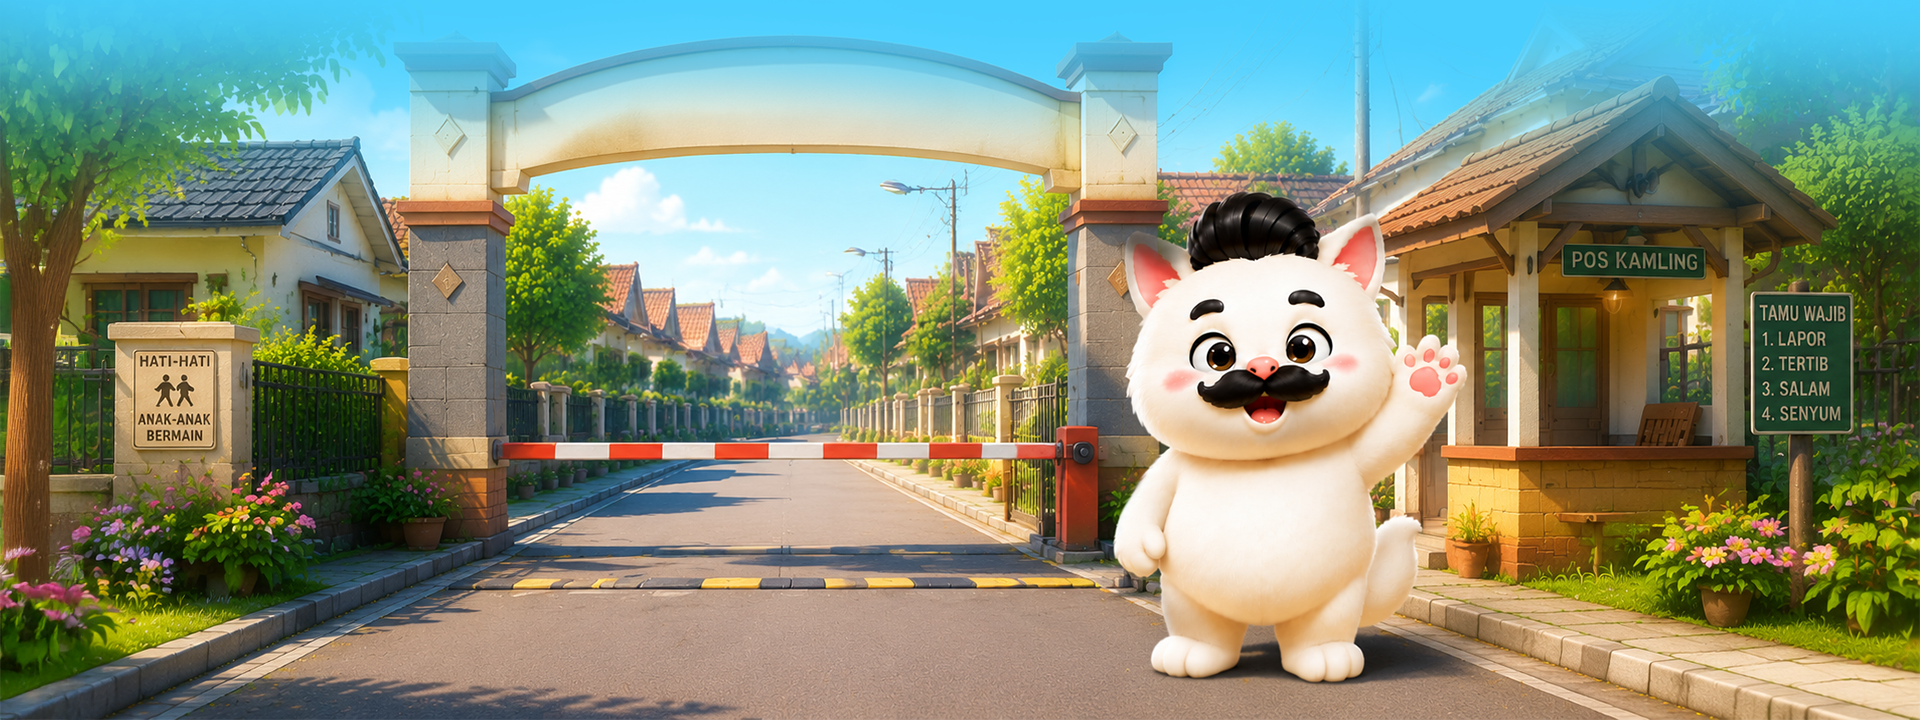
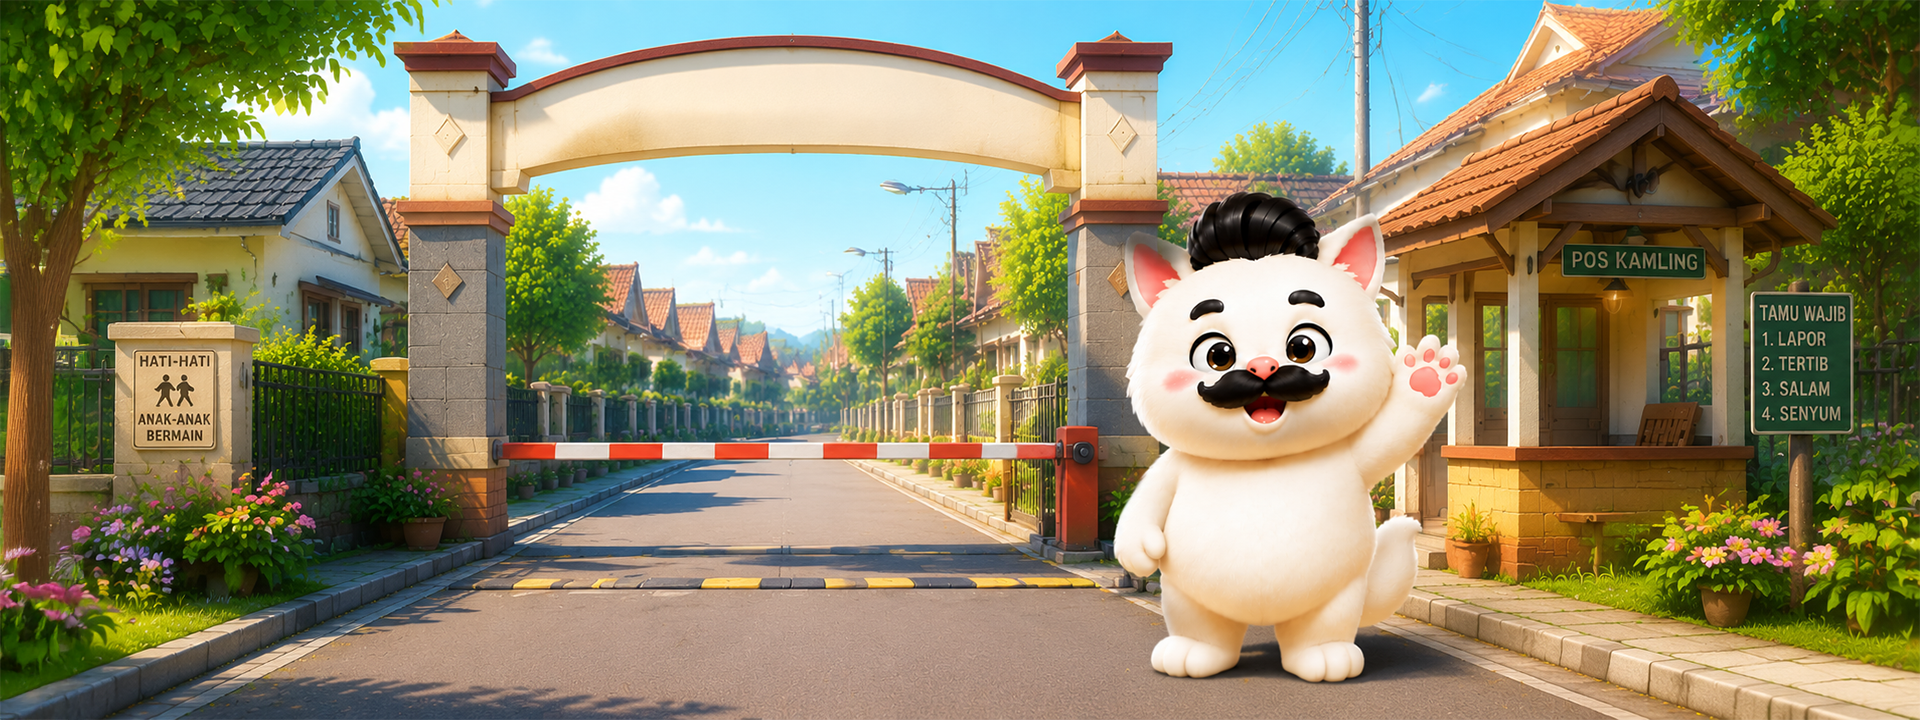
Hero: BG-duniakomi terbaru, headline sebaris, CTA sejajar kiri-kanan

Changed region(s): [[0.0, 0.0, 1.0, 0.3361]]

diff --git a/components/landing/Hero.tsx b/components/landing/Hero.tsx
@@ -33,22 +33,22 @@ export function Hero() {
       {/* Teks di depan banner, dibungkus frame kotak rounded biar gak tabrakan dengan latar */}
       <div className="absolute inset-0 flex items-end md:items-center">
         <div className="mx-auto w-full max-w-6xl px-4 pb-5 sm:px-8 md:pb-0">
-          <div className="max-w-md rounded-[1.75rem] border border-white/15 bg-navy/60 p-6 shadow-2xl backdrop-blur-md sm:p-7">
+          <div className="w-full max-w-xl rounded-[1.75rem] border border-white/15 bg-navy/60 p-6 shadow-2xl backdrop-blur-md sm:p-7 md:w-fit md:max-w-2xl">
             <span className="inline-flex items-center gap-2 rounded-full bg-white/20 px-4 py-1.5 font-body text-sm font-bold text-white backdrop-blur-sm">
               <Sparkles className="h-4 w-4" /> Dunia Komi
             </span>
-            <h1 className="mt-3 font-display text-4xl font-extrabold leading-[1.05] text-white drop-shadow-lg sm:text-6xl">
+            <h1 className="mt-3 font-display text-4xl font-extrabold leading-[1.05] text-white drop-shadow-lg sm:text-5xl md:whitespace-nowrap">
               Kenalin, ini <span className="text-orange-soft">Komi</span>.
             </h1>
-            <p className="mt-3 font-body text-base text-white/90 sm:text-lg">
+            <p className="mt-3 max-w-md font-body text-base text-white/90 sm:text-lg">
               Sahabat berkumis yang bikin baca berita jadi lebih asik — nemenin kamu update tiap hari.
             </p>
-            <div className="mt-5 flex flex-wrap gap-3">
+            <div className="mt-5 flex flex-wrap gap-3 md:flex-nowrap">
               <Link href="/kolom-komi">
-                <Button className="px-6 py-3 text-base">🐟 Main Kolom Komi</Button>
+                <Button className="px-5 py-3 text-base">🐟 Main Kolom Komi</Button>
               </Link>
               <a href="#daftar">
-                <Button variant="outline" className="px-6 py-3 text-base">
+                <Button variant="outline" className="px-5 py-3 text-base">
                   Daftar akses awal
                 </Button>
               </a>